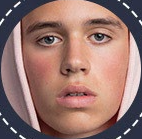
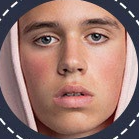
changed photo

diff --git a/index.html b/index.html
@@ -210,7 +210,7 @@
                     <p class="recommendation-text">Excepteur sint occaecat cupidatat non proident, sunt in culpa qui officia deserunt mollit anim id est dolor sit amet, consectetur adipisicing elit sed do eiusmod tempor incididunt ut labore..</p>
                 </div>
                 <div class="div-person">
-                    <img class="person" src="images/mau.PNG">
+                    <img class="person" src="images/MAU.PNG">
                 </div>
                 <div>
                     <img class="quotes" src="images/quote.svg">

diff --git a/JavaScript/app.js b/JavaScript/app.js
@@ -27,7 +27,7 @@ document.addEventListener("DOMContentLoaded", function() {
 const slides = [
     {
         text: "Excepteur sint occaecat cupidatat non proident, sunt in culpa qui officia deserunt mollit anim id est dolor sit amet, consectetur adipisicing elit sed do eiusmod tempor incididunt ut labore..",
-        image: "images/mau.png",
+        image: "images/MAU.PNG",
         name: "Mau Thomas",
         profession: "Graphic Designer"
     },
